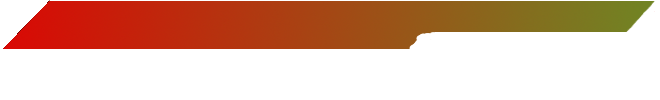
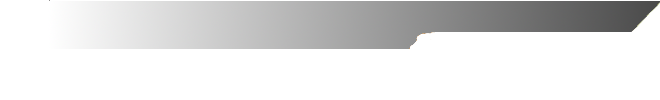
Added enemy hp bar

diff --git a/Assets/Scripts/Enemy Behaviour/EnemyStagger.cs b/Assets/Scripts/Enemy Behaviour/EnemyStagger.cs
@@ -3,47 +3,74 @@ using System.Collections;
 using System.Collections.Generic;
 using TMPro;
 using UnityEngine;
+using UnityEngine.UI;
 
 public class EnemyStagger : MonoBehaviour
 {
 	public static EnemyStagger StaggerInstance;
-
-	[SerializeField] TMP_Text staggerTime;
-	[SerializeField] Animator animator;
-	[SerializeField] private float staggerTimerCT;
-	[SerializeField] ThrustAttack ta;
-	[SerializeField] bool thrust;
+	[SerializeField] int maxHP;
 	[SerializeField] ParticleSystem hit;
 	[SerializeField] GameObject[] rotationPoints;
+	[SerializeField] TMP_Text hpText;
+	[SerializeField] Image hpFill;
+	[SerializeField] Color _maxColor;
+	[SerializeField] Color _minColor;
+	[SerializeField] float _fillStabilizeMultiplier;
+	[SerializeField] float healthFlashExponent;
+	[SerializeField] float flashingThreshold;
+	[SerializeField] float damageFromProjectiles;
+	[HideInInspector]
+	public float HP;
 	public bool staggered;
 	private float hitCooldown;
-	[HideInInspector]
-	public float staggerTimer;
+	private float clampedHP;
+    private float oldClampedHP_IP;
+    private float newClampedHP_IP;
+    private float _IP_timer;
+    private float IP_timer;
+
+
+    private void Start(){
+        oldClampedHP_IP = 1;
+        newClampedHP_IP = 1;
+        clampedHP = 1;
+    }
 
 	private void Awake()
 	{
 		if (StaggerInstance == null) StaggerInstance = this;
-		staggerTimer = 0f;
+		HP = 0;
 		hitCooldown = 0f;
 	}
 
 	private void Update()
 	{
-		if(staggerTimer > 0f) staggered = false;
+		HP = Mathf.Clamp(HP, 0, maxHP);
+        oldClampedHP_IP = newClampedHP_IP;
+        newClampedHP_IP = (float)HP / (float)maxHP;
+
+        if(!Mathf.Approximately(oldClampedHP_IP, newClampedHP_IP)){
+            _IP_timer = Mathf.Abs(oldClampedHP_IP - newClampedHP_IP) * _fillStabilizeMultiplier;
+            IP_timer = _IP_timer;
+        }
+        if(IP_timer > 0f){
+            clampedHP = Mathf.Lerp(clampedHP, newClampedHP_IP, 1 - IP_timer/_IP_timer);
+            IP_timer -= Time.deltaTime;
+        }
+        hpFill.fillAmount = clampedHP;
+        hpText.text = (int)HP + "/" + maxHP;
+        hpText.color = Color.Lerp(_minColor, _maxColor, (float)HP/maxHP);
+        hpFill.color = Color.Lerp(_minColor, _maxColor, (float)HP/maxHP);
+        if((float)HP / maxHP <= flashingThreshold / 100f && HP > 0) hpText.fontMaterial.SetFloat(ShaderUtilities.ID_FaceDilate, Mathf.Lerp(-0.5f, 0.5f, Mathf.PingPong(Time.time * Mathf.Pow(healthFlashExponent, 1 - ((float)HP / maxHP / flashingThreshold / 100f)), 1)));
+        else hpText.fontMaterial.SetFloat(ShaderUtilities.ID_FaceDilate, -0.5f);
+		if(HP > 0f) staggered = false;
 		else staggered = true;
 		if(Input.GetKeyDown(KeyCode.Alpha1)){
 			foreach(GameObject point in rotationPoints){
 				point.transform.position = new Vector3(transform.position.x, 5.66f, transform.position.z);
 			}
-			staggerTimer = staggerTimerCT;
+			HP = maxHP;
 		}
-		if (staggerTimer >= 0f)
-		{
-			staggerTimer -= Time.deltaTime;
-			staggerTime.color = Color.green;
-			staggerTime.text = "Time until stagger: " + Convert.ToInt64(staggerTimer);
-		}
-		if(staggered) Stagger();
 		if(hitCooldown > 0f)
 		{
 			hitCooldown -= Time.deltaTime;
@@ -59,17 +86,8 @@ public class EnemyStagger : MonoBehaviour
 		if (collision.CompareTag("FProjectile"))
 		{
 			hitCooldown = 0.4f;
-			staggerTimer -= 2f;
+			HP -= damageFromProjectiles;
 			hit.Play();
 		}
-	}
-	void Stagger()
-	{
-		//animator.SetBool("wasHit", true);
-		staggerTime.text = "Strike Now!";
-		staggerTime.color = Color.red;
-		if (thrust)
-			ta.enabled = false;
-		
 	}
 }

diff --git a/Assets/Scripts/Player Behaviour/HealthHandler.cs b/Assets/Scripts/Player Behaviour/HealthHandler.cs
@@ -8,15 +8,16 @@ public class HealthHandler : MonoBehaviour
     [SerializeField] Animator playeranim;
 	[SerializeField] TMP_Text UIHPText;
 	[SerializeField] TMP_Text UIHitText;
-    [SerializeField] GameObject deathCam;
     [SerializeField] Image hpfill;
-    [SerializeField] float _fillStabilizeMultiplier;
     [SerializeField] Color _maxColor;
     [SerializeField] Color _minColor;
+    [SerializeField] float _fillStabilizeMultiplier;
     [SerializeField] float healthFlashExponent = 10;
+    [SerializeField] float flashingThreshold;
     [SerializeField] ParticleSystem hit;
+    [SerializeField] GameObject deathCam;
     private bool defaulted = true;
-    private int HP = 250;
+    private float HP = 250;
     private float clampedHP;
     private float oldClampedHP_IP;
     private float newClampedHP_IP;
@@ -49,10 +50,11 @@ public class HealthHandler : MonoBehaviour
             IP_timer -= Time.deltaTime;
         }
         hpfill.fillAmount = clampedHP;
-        UIHPText.text = HP + "/" + maxHP;
+        UIHPText.text = (int)HP + "/" + maxHP;
 		UIHitText.text = "Hits taken: " + hitsTaken;
         UIHPText.color = Color.Lerp(_minColor, _maxColor, (float)HP/maxHP);
-        if((float)HP / maxHP <= 0.4f && HP > 0) UIHPText.fontMaterial.SetFloat(ShaderUtilities.ID_FaceDilate, Mathf.Lerp(-0.5f, 0.5f, Mathf.PingPong(Time.time * Mathf.Pow(healthFlashExponent, 1 - ((float)HP / maxHP / 0.4f)), 1)));
+        hpfill.color = Color.Lerp(_minColor, _maxColor, (float)HP/maxHP);
+        if((float)HP / maxHP <= flashingThreshold / 100f && HP > 0) UIHPText.fontMaterial.SetFloat(ShaderUtilities.ID_FaceDilate, Mathf.Lerp(-0.5f, 0.5f, Mathf.PingPong(Time.time * Mathf.Pow(healthFlashExponent, 1 - ((float)HP / maxHP / flashingThreshold / 100f)), 1)));
         else UIHPText.fontMaterial.SetFloat(ShaderUtilities.ID_FaceDilate, -0.5f);
         if (HP <= 0)
         {
@@ -61,7 +63,7 @@ public class HealthHandler : MonoBehaviour
                 moveSystem.StopAction();
                 moveSystem.StartAction(0, PlayerHandler.PlayerState.Knocked, true);
                 deathCam.SetActive(true);
-                EnemyStagger.StaggerInstance.staggerTimer = -1f;
+                EnemyStagger.StaggerInstance.HP = 0;
             }
             playeranim.SetBool("Knocked", true);
         }

diff --git a/Assets/Scripts/Enemy Behaviour/MoveToPosition.cs b/Assets/Scripts/Enemy Behaviour/MoveToPosition.cs
@@ -46,7 +46,7 @@ public class MoveToPosition : MonoBehaviour
     { 
         if(Input.GetKeyDown(KeyCode.Alpha1)) timer = 1f;
         if(timer > 0f) timer -= Time.fixedDeltaTime;
-        if(EnemyStagger.StaggerInstance.staggerTimer > 0f && timer > -1f && timer <= 0f)
+        if(EnemyStagger.StaggerInstance.HP > 0f && timer > -1f && timer <= 0f)
             Move();
         
 
